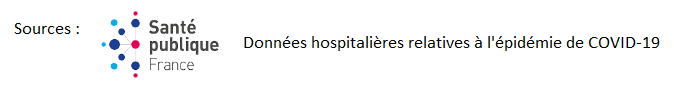
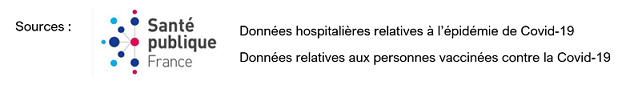
Add files via upload

diff --git a/Covid19_utils.py b/Covid19_utils.py
@@ -100,6 +100,15 @@ def charge_data_indic():
     return max_dte, tot_hosp_j, tot_rea_j, tot_dc_j, tot_hosp_j_1, tot_rea_j_1, tot_dc_j_1, evol_hosp, evol_rea, evol_dc
 
 #----------------------------------------------------------------------------------------------------------------------------
+# Chargement des données sur la couverture vaccinale
+def charge_data_vaccin():
+    url = "https://www.data.gouv.fr/fr/datasets/r/7969c06d-848e-40cf-9c3c-21b5bd5a874b"
+    content = requests.get(url).content
+    df = pd.read_csv(io.StringIO(content.decode('utf-8')), sep=';')
+    df.rename(columns={'dep' : 'code_departement'}, inplace=True)
+    return df
+
+#----------------------------------------------------------------------------------------------------------------------------
 # Chargement des données
 def charge_data(date_deb, df_dept, df_pop_dept, df_type_data, ratio=10000):
     dte_deb = pd.to_datetime(date_deb, format='%d/%m/%Y')
@@ -527,6 +536,7 @@ def plot_carte(df_type_data, dte_deb, Donnée, Zone, df_hors_paris, df_paris, ge
                         color=colonne,
                         animation_frame="jour",
                         hover_name="infos",
+                        hover_data={'code_departement':False},
                         color_continuous_scale=px.colors.sequential.RdBu_r,
                         range_color=[min, max],
                         labels={'hosp':'Nb personnes', 'rea':'Nb personnes', 'rad':'Nb personnes',
@@ -534,7 +544,7 @@ def plot_carte(df_type_data, dte_deb, Donnée, Zone, df_hors_paris, df_paris, ge
                        )
 
     fig.update_geos(fitbounds="locations", visible=False)
-    fig.update_layout(
+    fig.update_layout(hoverlabel=dict(bgcolor="white"),
         title_text = "<br>COVID-19 - Evolution sur les 15 derniers jours "+lib_zone+"<br>- "+Donnée + " -<br></b>",
         title_x = 0.5, title_font_size=20, title_font_color='rgb(217,95,2)',
                           legend=dict(font=dict(size=15)),
@@ -589,6 +599,7 @@ def plot_carte_ratio(df_type_data, dte_deb, Donnée, Zone, df_hors_paris, df_par
                         color=colonne,
                         animation_frame="jour",
                         hover_name="infos",
+                        hover_data={'code_departement':False},
                         color_continuous_scale=px.colors.sequential.RdBu_r,
                         range_color=[min, max],
                         labels={'hosp':'Nb personnes', 'rea':'Nb personnes', 'rad':'Nb personnes',
@@ -596,7 +607,7 @@ def plot_carte_ratio(df_type_data, dte_deb, Donnée, Zone, df_hors_paris, df_par
                        )
 
     fig.update_geos(fitbounds="locations", visible=False)
-    fig.update_layout(
+    fig.update_layout(hoverlabel=dict(bgcolor="white"),
         title_text = "<br>COVID-19 - Evolution sur les 15 derniers jours "+lib_zone+"<br>- "+Donnée+' : ratio pour '+lib_ratio+' habitants -</br></b> ',
         title_x = 0.5, title_font_size=20, title_font_color='rgb(217,95,2)',
                           legend=dict(font=dict(size=15)),
@@ -888,3 +899,67 @@ def plot_age_1region(df_type_data, Donnée, df_plot, reg, dict_labels, local, sh
         fig.write_html(local+'/Output/Evol_age_'+colonne+'_'+reg+'.html', auto_open=False)
 
     return fig, colonne
+
+
+
+def plot_vaccin(df, geo, local, show='O'):
+
+    list_om = ['971', '972', '973', '974', '976']
+    annot = ""
+    for d in list_om:
+        dep = df[df.code_departement == d]['nom_departement'].reset_index(drop=True)[0]
+        taux = df[df.code_departement == d]['couv_tot_complet'].reset_index(drop=True)[0]
+        if (d == '973') or (d == '976'):
+            annot += dep + "\t\t: " + str(taux) + "<br>"
+        elif d == '971':
+            annot += dep + "\t: " + str(taux) + "<br>"
+        else:
+            annot += dep + "\t: " + str(taux) + "<br>"
+
+    min = 40 #df[~df.code_departement.isin(list_om)]['couv_tot_complet'].min()
+    max = 100 #df[~df.code_departement.isin(list_om)]['couv_tot_complet'].max()
+
+    fig = px.choropleth(df[~df.code_departement.isin(list_om)],
+                        geojson=geo,
+                        locations="code_departement", 
+                        featureidkey="properties.code",
+                        color='couv_tot_complet',
+                        #animation_frame="jour",
+                        hover_name="infos",
+                        color_continuous_scale=px.colors.sequential.Greens,
+                        range_color=[min, max],
+                        labels={'couv_tot_complet':'Taux de population couverte'},
+                        hover_data={'code_departement':False} 
+                    )
+
+    fig.update_geos(fitbounds="locations", visible=False)
+
+    fig.add_annotation(text=annot, font_size=12, align='left',
+                    xref="paper", yref="paper",
+                    x=0, y=0.05, showarrow=False)
+
+    fig.update_layout(hoverlabel=dict(bgcolor="white"),
+        title_text = "<br>Taux de couverture par département</br>",
+        title_x = 0.5, title_font_size=20, title_font_color='rgb(217,95,2)',
+                        showlegend=False,
+        geo=dict(
+            showframe = False,
+            showcoastlines = False,
+            projection_type = 'mercator'),
+        width=600,
+        height=400,
+        margin=dict(
+            l= 0,
+            r= 0,
+            b= 0,
+            #t= 0,
+            pad= 4)
+    )
+
+    if show == 'O':
+        fig.show()
+    
+    if local != ".":
+        fig.write_html(local+'/Output/Vaccin_dept.html', auto_open=False)
+
+    return fig

diff --git a/app.py b/app.py
@@ -21,6 +21,14 @@ def get_data_indic():
     j, tot_hosp_j, tot_rea_j, tot_dc_j, tot_hosp_j_1, tot_rea_j_1, tot_dc_j_1, evol_hosp, evol_rea, evol_dc = ut.charge_data_indic()
     return j, tot_hosp_j, tot_rea_j, tot_dc_j, tot_hosp_j_1, tot_rea_j_1, tot_dc_j_1, evol_hosp, evol_rea, evol_dc
 
+def get_vaccin(df_dept):
+    df = ut.charge_data_vaccin()
+    taux_glob = np.round(df['n_tot_complet'].sum() * 100 / df['pop'].sum(), 2)
+    df = pd.merge(df, df_dept, on='code_departement')
+    df['infos'] = df['code_departement'] + " - " + df['nom_departement']
+
+    return taux_glob, df
+
 #############################################################################################################
 
 st.set_page_config(page_title="Covid19", page_icon=None, layout='wide', initial_sidebar_state='auto')
@@ -80,17 +88,59 @@ fig.add_trace(go.Indicator(
     title={'text': 'Personnes décédées'},
     delta = {'reference': tot_dc_j_1},
     domain = {'row': 0, 'column': 2}))
-    
+
+  
 fig.update_layout(width=1000, height=170, margin={'l':0},
     grid = {'rows': 1, 'columns': 3, 'pattern': "independent"})
 
 fig.update_traces(delta_decreasing_color='green', delta_increasing_color='red',
                  number_valueformat=",.", delta_valueformat=",.",
-                 title_font_size=20, delta_font_size=25, number_font_size=35)
-
+                 title_font_size=18, delta_font_size=23, number_font_size=30)
 
 
 st.plotly_chart(fig)
+
+taux_glob, df_vaccin = get_vaccin(df_dept)
+
+
+#---------------------------------------------------------------------------------------------------------------
+
+title_vaccin = """
+                <style>
+                    .title h2{
+                    user-select: none;
+                    font-size: 25px;
+                    color:rgb(228,26,28);
+                    }
+                </style>
+                <div class="title">
+                    <h2><b>Taux de couverture vaccinale complète</b></h2>
+                </div>
+                """
+st.markdown(title_vaccin, unsafe_allow_html=True)
+
+#---------------------------------------------------------------------------------------------------------------
+
+with st.expander("Couverture vaccinale complète"):
+    col1, col2 = st.columns((1, 2))
+    with col1:
+        fig = go.Figure()
+
+        fig = go.Figure(go.Indicator(
+            mode = "gauge+number",
+            value = taux_glob,
+            title = {'text': "Taux national"},
+            domain = {'x': [0, 1], 'y': [0, 1]}
+        ))
+        fig.update_layout(width=450, height=400, 
+        margin={'l':0})
+
+        fig.update_traces(title_font_size=20,  number_font_size=30)
+        st.plotly_chart(fig, use_container_width=True)
+    with col2:
+        fig = ut.plot_vaccin(df_vaccin, geo, local, 'N')
+        st.plotly_chart(fig, use_container_width=True)
+
 
 #---------------------------------------------------------------------------------------------------------------
 
